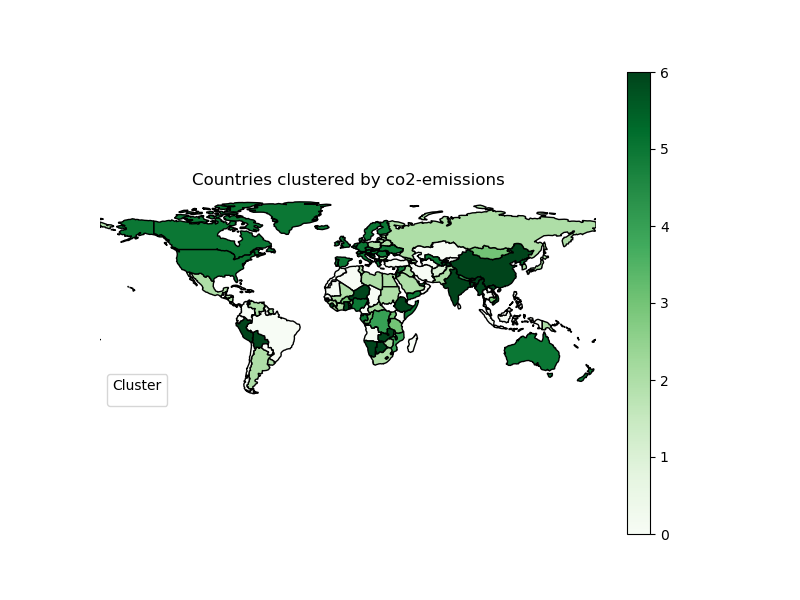
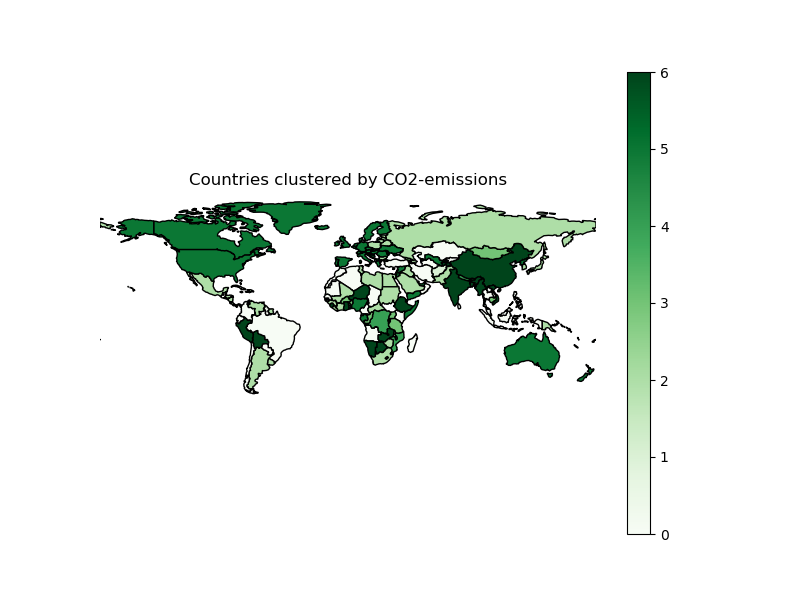
minor changes w.r.t the visualization

Changed region(s): [[0.25, 0.27, 0.625, 0.33], [0.125, 0.63, 0.2188, 0.66]]

diff --git a/co2_emmisions_analysis.py b/co2_emmisions_analysis.py
@@ -69,8 +69,9 @@ def plot_clusters(df, out_path):
     join_df = geopandas.GeoDataFrame(kms_df.merge(world, left_on="Country Code", right_on="iso_a3", how="left"), geometry="geometry")
     join_df = join_df[join_df.geometry != None]
 
-    p = geoplot.choropleth(join_df, hue="prediction", cmap="Greens", legend=True)
-    plt.title("Countries clustered by co2-emissions")
+    geoplot.choropleth(join_df, hue="prediction", cmap="Greens", legend=True)
+    #plt.title("Countries clustered by CO2-emissions")
+    
     plt.savefig(out_path)
 
 def main():
